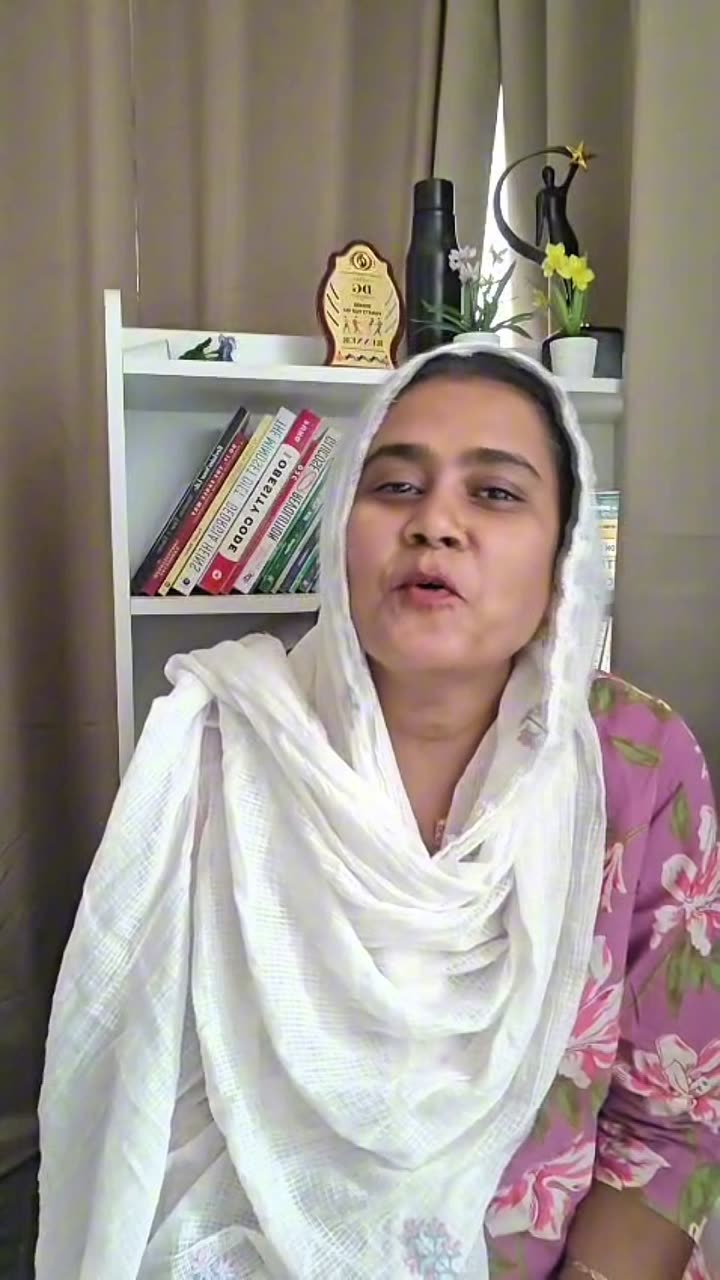
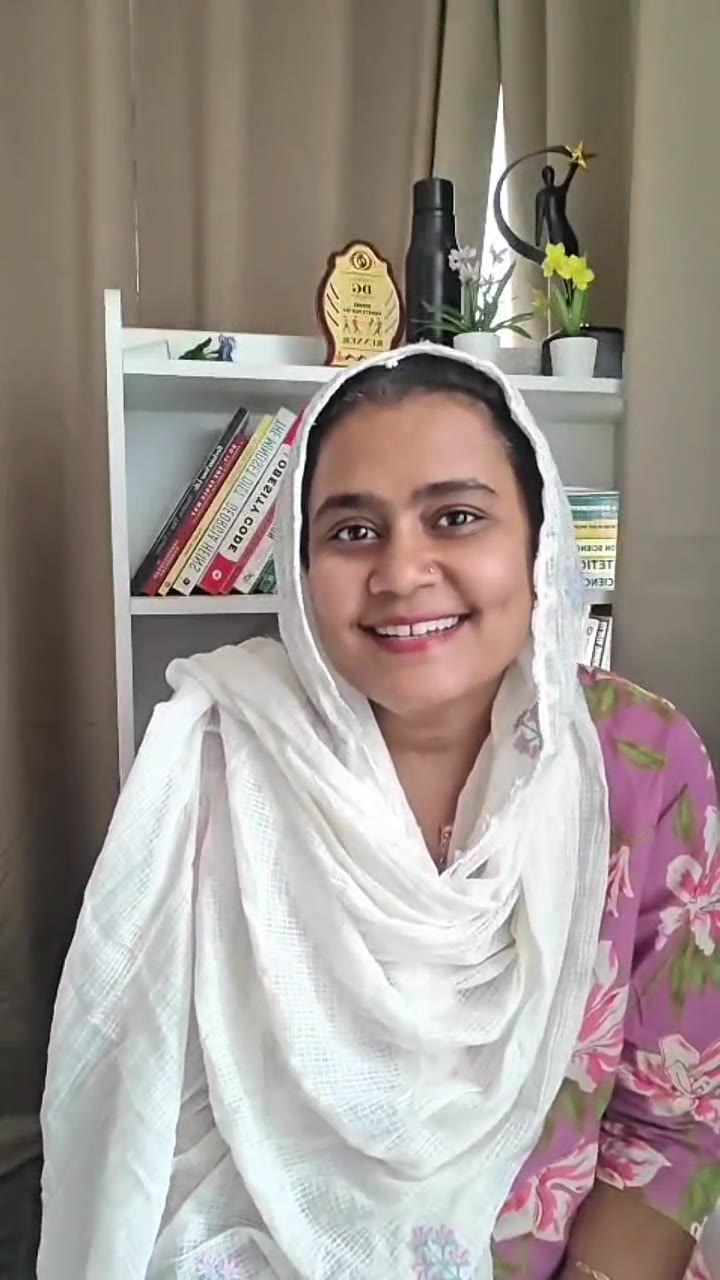
feat(landing): light-only landing, new video thumbnails, clearer labels
- Landing page always renders in light mode (the app defaults to dark, which
  made it black on phones); the visitor's own theme returns on navigation.
- Testimonial: new smiling thumbnail and a Dt. Aysha Nasreen name card.
- Walkthrough: designed "Play the video" thumbnail and tap-to-play instead of
  autoplay.
- Section labels become legible green pill badges; tighter hero spacing.
- Plate Vision copy talks about nutrition insights instead of calorie
  estimates.

diff --git a/frontend/src/pages/sirah/Landing.tsx b/frontend/src/pages/sirah/Landing.tsx
@@ -1,4 +1,4 @@
-import { useRef, useState, type ReactNode } from 'react';
+import { useLayoutEffect, useRef, useState, type ReactNode } from 'react';
 import {
   motion,
   useMotionValueEvent,
@@ -8,6 +8,7 @@ import {
   useTransform,
 } from 'framer-motion';
 import { Link } from 'react-router-dom';
+import { useTheme } from 'next-themes';
 import {
   Mic, Camera, BarChart3, ArrowRight, Check,
   UserPlus, Palette, Rocket, LineChart,
@@ -25,10 +26,15 @@ import {
 import { HeroSection } from './landing/HeroSection';
 
 export default function SirahLanding() {
+  useForceLightTheme();
+
   // The landing scrolls inside this container (not the window), so every
   // scroll-linked effect reads from it.
   const scrollRef = useRef<HTMLDivElement>(null);
   const demoRef = useRef<HTMLDivElement>(null);
+  const demoVideoRef = useRef<HTMLVideoElement>(null);
+  // The walkthrough waits for a tap so its designed thumbnail is actually seen.
+  const [demoStarted, setDemoStarted] = useState(false);
   const reduceMotion = useReducedMotion();
 
   const { scrollY, scrollYProgress } = useScroll({ container: scrollRef });
@@ -129,7 +135,7 @@ export default function SirahLanding() {
       {/* What is NUSI - one-sentence definition + the three parts of the product */}
       <section id="what" className="relative z-10 mx-auto max-w-6xl scroll-mt-8 px-6 pb-24 md:px-10">
         <Reveal className="mb-12 text-center">
-          <span className="text-xs uppercase tracking-[0.18em] text-teal-700 dark:text-teal-300">What is NUSI</span>
+          <Eyebrow>What is NUSI</Eyebrow>
           <h2 className="mx-auto mt-3 max-w-3xl text-3xl font-semibold tracking-tight text-foreground md:text-4xl">
             One platform that runs your entire dietetics practice.
           </h2>
@@ -162,7 +168,7 @@ export default function SirahLanding() {
       {/* Problems we solve - each card is a real day-to-day pain, then the fix */}
       <section id="problems" className="relative z-10 mx-auto max-w-6xl scroll-mt-8 px-6 pb-24 md:px-10">
         <Reveal className="mb-12 text-center">
-          <span className="text-xs uppercase tracking-[0.18em] text-teal-700 dark:text-teal-300">Problems we solve</span>
+          <Eyebrow>Problems we solve</Eyebrow>
           <h2 className="mx-auto mt-3 max-w-3xl text-3xl font-semibold tracking-tight text-foreground md:text-4xl">
             Running a nutrition practice shouldn't feel like this.
           </h2>
@@ -199,7 +205,7 @@ export default function SirahLanding() {
           title and a single line each, so the whole product fits one glance. */}
       <section id="features" className="relative z-10 mx-auto max-w-6xl px-6 pb-24 md:px-10">
         <Reveal className="mb-10 text-center">
-          <span className="text-xs uppercase tracking-[0.18em] text-teal-700 dark:text-teal-300">Features</span>
+          <Eyebrow>Features</Eyebrow>
           <h2 className="mt-3 text-3xl font-semibold tracking-tight text-foreground md:text-4xl">
             Everything a nutrition practice runs on.
           </h2>
@@ -263,7 +269,7 @@ export default function SirahLanding() {
           />
           <div className="relative">
         <Reveal className="mb-12 text-center">
-          <span className="text-xs uppercase tracking-[0.18em] text-teal-700 dark:text-teal-300">Why dietitians choose NUSI</span>
+          <Eyebrow>Why dietitians choose NUSI</Eyebrow>
           <h2 className="mx-auto mt-3 max-w-3xl text-3xl font-semibold tracking-tight text-foreground md:text-4xl">
             More time for clients. Better results. A practice that grows.
           </h2>
@@ -298,7 +304,7 @@ export default function SirahLanding() {
           On large screens a connector line runs behind the numbered markers. */}
       <section id="how" className="relative z-10 mx-auto max-w-6xl scroll-mt-8 px-6 pb-24 md:px-10">
         <Reveal className="mb-14 text-center">
-          <span className="text-xs uppercase tracking-[0.18em] text-teal-700 dark:text-teal-300">How it works</span>
+          <Eyebrow>How it works</Eyebrow>
           <h2 className="mt-3 text-3xl font-semibold tracking-tight text-foreground md:text-4xl">
             Five steps from scattered to sorted.
           </h2>
@@ -344,9 +350,7 @@ export default function SirahLanding() {
           so it autoplays muted + loops when scrolled into view. */}
       <section id="demo" className="relative z-10 mx-auto max-w-5xl px-6 pb-24 md:px-10">
         <Reveal className="mb-10 text-center">
-          <span className="text-xs uppercase tracking-[0.18em] text-teal-700 dark:text-teal-300">
-            Watch the walkthrough
-          </span>
+          <Eyebrow>Watch the walkthrough</Eyebrow>
           <h2 className="mt-3 text-3xl font-semibold tracking-tight text-foreground md:text-4xl">
             From sign-up to a live workspace, in minutes.
           </h2>
@@ -375,17 +379,34 @@ export default function SirahLanding() {
           <div className="mx-auto w-full max-w-[920px]">
             <div className="relative rounded-t-[1.4rem] rounded-b-md bg-[#0d1117] p-3 pt-6 shadow-[0_0_0_2px_#2a3240,0_44px_120px_-32px_rgba(12,20,34,0.5)] transition-shadow duration-500 hover:shadow-[0_0_0_2px_#2a3240,0_50px_130px_-30px_rgba(85,142,25,0.45)] md:p-4 md:pt-7">
               <span aria-hidden className="absolute left-1/2 top-2.5 h-1.5 w-1.5 -translate-x-1/2 rounded-full bg-[#2a3240] md:top-3" />
-              <video
-                src="/tutorial-onboarding.mp4"
-                autoPlay
-                muted
-                loop
-                playsInline
-                controls
-                preload="metadata"
-                aria-label="NUSI new nutritionist onboarding walkthrough"
-                className="aspect-video w-full rounded-md bg-black"
-              />
+              <div className="relative overflow-hidden rounded-md">
+                <video
+                  ref={demoVideoRef}
+                  src="/tutorial-onboarding.mp4"
+                  poster="/tutorial-onboarding-poster.jpg"
+                  muted
+                  playsInline
+                  controls={demoStarted}
+                  preload="metadata"
+                  onEnded={() => setDemoStarted(false)}
+                  aria-label="NUSI new nutritionist onboarding walkthrough"
+                  className="aspect-video w-full bg-black"
+                />
+                {!demoStarted && (
+                  <button
+                    type="button"
+                    onClick={() => {
+                      setDemoStarted(true);
+                      void demoVideoRef.current?.play();
+                    }}
+                    aria-label="Play the onboarding walkthrough"
+                    className="group absolute inset-0 cursor-pointer focus-visible:outline-none focus-visible:ring-4 focus-visible:ring-teal-400/60"
+                  >
+                    {/* The thumbnail has its own play button; this just adds a hover lift. */}
+                    <span className="absolute inset-0 bg-white/0 transition-colors duration-300 group-hover:bg-white/[0.04]" />
+                  </button>
+                )}
+              </div>
             </div>
             <div aria-hidden className="relative -mx-[5%] h-3.5 rounded-b-2xl bg-gradient-to-b from-[#d5dbe1] to-[#a9b1ba] shadow-[0_18px_30px_-18px_rgba(12,20,34,0.45)] md:h-4">
               <span className="absolute left-1/2 top-0 h-1.5 w-[14%] -translate-x-1/2 rounded-b-lg bg-[#9aa3ad]" />
@@ -459,6 +480,57 @@ const CARD_HOVER =
   'group transition-[transform,border-color,box-shadow] duration-300 hover:border-teal-500/40 ' +
   'hover:shadow-[0_22px_45px_-22px_rgba(85,142,25,0.45)] motion-safe:hover:-translate-y-1';
 
+/**
+ * Section label shown above each heading - a tinted green pill with a dot, sized
+ * and weighted to read clearly on both light and dark backgrounds.
+ */
+function Eyebrow({ children }: { children: ReactNode }) {
+  return (
+    <span className="inline-flex items-center gap-2 rounded-full border border-teal-600/25 bg-teal-500/10 px-3.5 py-1.5 text-xs font-semibold uppercase tracking-[0.14em] text-teal-800 dark:border-teal-400/30 dark:bg-teal-400/10 dark:text-teal-200 md:text-[13px]">
+      <span aria-hidden className="h-1.5 w-1.5 rounded-full bg-teal-600 dark:bg-teal-300" />
+      {children}
+    </span>
+  );
+}
+
+/**
+ * The landing page is always light, whatever theme the visitor last used in the
+ * app (the app defaults to dark, which made the page black on phones). The
+ * visitor's own preference is left untouched and restored when they navigate on.
+ */
+function useForceLightTheme() {
+  const { resolvedTheme } = useTheme();
+  const resolvedRef = useRef(resolvedTheme);
+  resolvedRef.current = resolvedTheme;
+
+  useLayoutEffect(() => {
+    const root = document.documentElement;
+    const meta = document.querySelector<HTMLMetaElement>('meta[name="theme-color"]');
+    const prevMeta = meta?.content;
+
+    const applyLight = () => {
+      if (root.classList.contains('dark')) root.classList.remove('dark');
+      if (!root.classList.contains('light')) root.classList.add('light');
+      if (root.style.colorScheme !== 'light') root.style.colorScheme = 'light';
+    };
+    applyLight();
+    if (meta) meta.content = '#fafbfc';
+
+    // The theme provider may re-apply its class after this mounts; keep light.
+    const observer = new MutationObserver(applyLight);
+    observer.observe(root, { attributes: true, attributeFilter: ['class', 'style'] });
+
+    return () => {
+      observer.disconnect();
+      const theme = resolvedRef.current === 'light' ? 'light' : 'dark';
+      root.classList.remove('light', 'dark');
+      root.classList.add(theme);
+      root.style.colorScheme = theme;
+      if (meta && prevMeta) meta.content = prevMeta;
+    };
+  }, []);
+}
+
 /** Fades + lifts its children in the first time they scroll into view. */
 function Reveal({ children, className }: { children: ReactNode; className?: string }) {
   return (
@@ -521,7 +593,7 @@ const productParts = [
     icon: Camera,
     label: 'For every meal',
     title: 'AI Plate Vision',
-    body: 'Clients snap a photo of their plate and NUSI recognises the foods - Indian meals included - and estimates calories and macros in seconds.',
+    body: 'Clients snap a photo of their plate and NUSI recognises the foods - Indian meals included - and turns every meal into clear nutrition insights you can act on.',
   },
 ];
 
@@ -549,7 +621,7 @@ const painPoints = [
     icon: Stethoscope,
     problem: 'No real picture of what clients eat',
     pain: 'Clients forget to log, guess portions, or send a single blurry photo - making it hard to adjust the plan with confidence.',
-    fix: 'Clients log by photo, barcode or voice, and Plate Vision estimates the nutrition of Indian meals.',
+    fix: 'Clients log by photo, barcode or voice, and Plate Vision turns Indian meals into nutrition insights.',
   },
   {
     icon: BellRing,

diff --git a/frontend/src/pages/sirah/landing/HeroSection.tsx b/frontend/src/pages/sirah/landing/HeroSection.tsx
@@ -23,13 +23,13 @@ import { AIGlow, Glass, fadeUp, stagger } from '@/design-system';
 // Fill these in to show a name/role caption under the video. Left blank until
 // the real details are confirmed - never invent a testimonial's attribution.
 const TESTIMONIAL = {
-  name: '',
-  role: '',
+  name: 'Dt. Aysha Nasreen',
+  role: 'Dietitian',
 };
 
 export function HeroSection() {
   return (
-    <section className="relative z-10 mx-auto grid max-w-7xl grid-cols-1 items-center gap-12 px-6 pb-24 pt-10 md:px-10 md:pt-16 lg:grid-cols-[1.25fr_1fr] lg:gap-10 lg:pb-32 lg:pt-20">
+    <section className="relative z-10 mx-auto grid max-w-7xl grid-cols-1 items-center gap-12 px-6 pb-20 pt-2 md:px-10 md:pt-4 lg:grid-cols-[1.25fr_1fr] lg:gap-10 lg:pb-24 lg:pt-4">
       {/* ── Text column ─────────────────────────────────────────────── */}
       <motion.div
         variants={stagger(0.08, 0.06)}
@@ -175,7 +175,7 @@ function TestimonialVideo() {
               </span>
 
               <span className="text-sm font-medium leading-snug text-white">
-                Hear from a practising dietitian who runs their practice on NUSI.
+                Hear from Dt. Aysha Nasreen on running a dietetics practice with NUSI.
                 <span className="mt-1 block text-xs font-normal text-white/70">1 min · tap to play with sound</span>
               </span>
             </button>
@@ -184,7 +184,7 @@ function TestimonialVideo() {
       </div>
 
       {hasAttribution && (
-        <Glass className="relative mx-auto -mt-6 w-[88%] px-4 py-3 text-center">
+        <Glass className="relative mx-auto mt-4 w-[88%] px-4 py-3 text-center">
           <div className="text-sm font-semibold text-foreground">{TESTIMONIAL.name}</div>
           {TESTIMONIAL.role && <div className="text-xs text-foreground/55">{TESTIMONIAL.role}</div>}
         </Glass>
